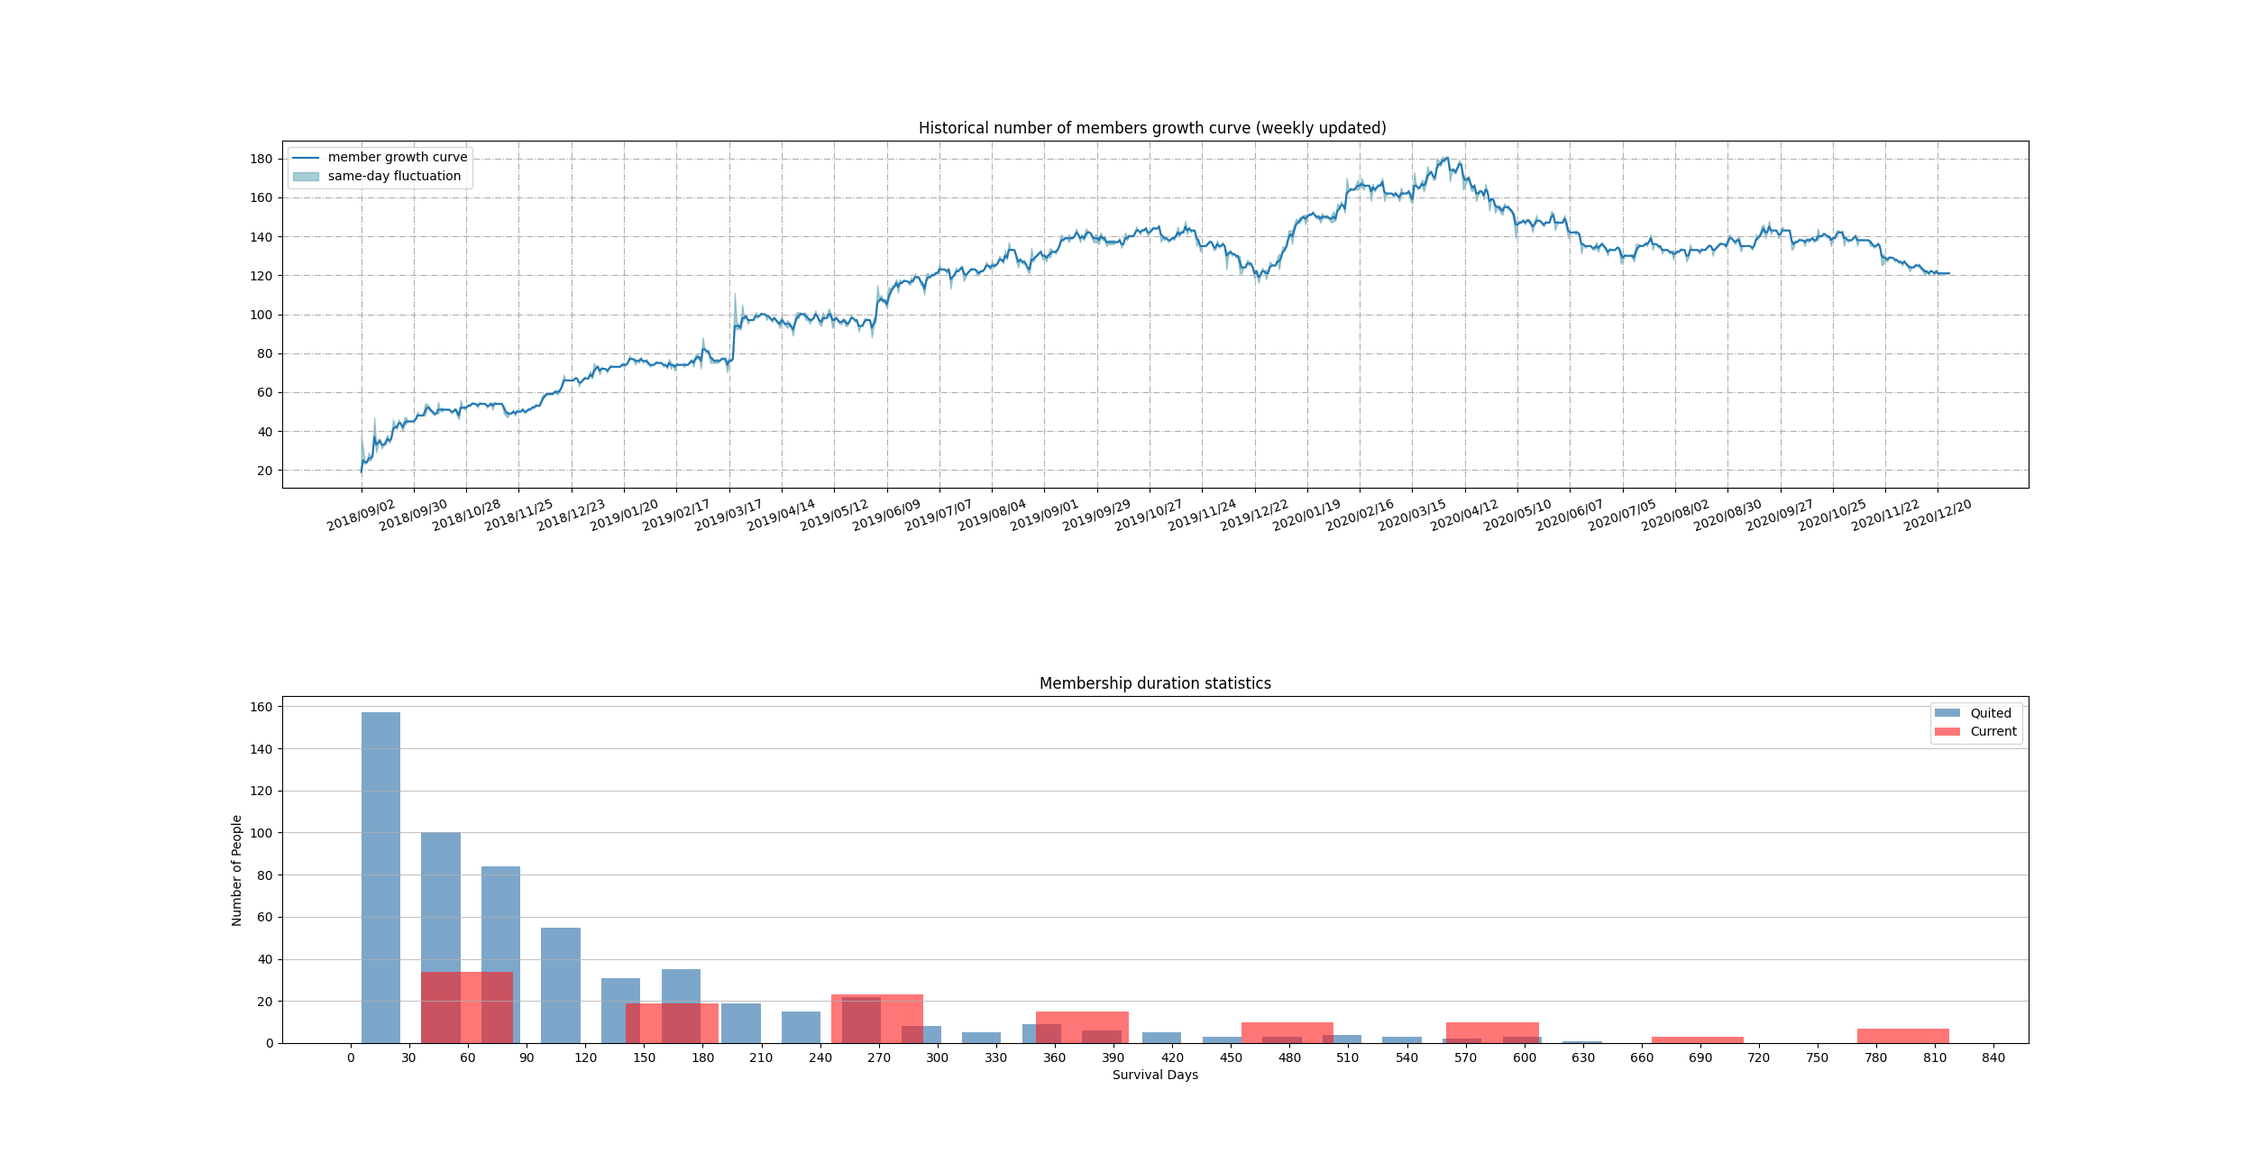
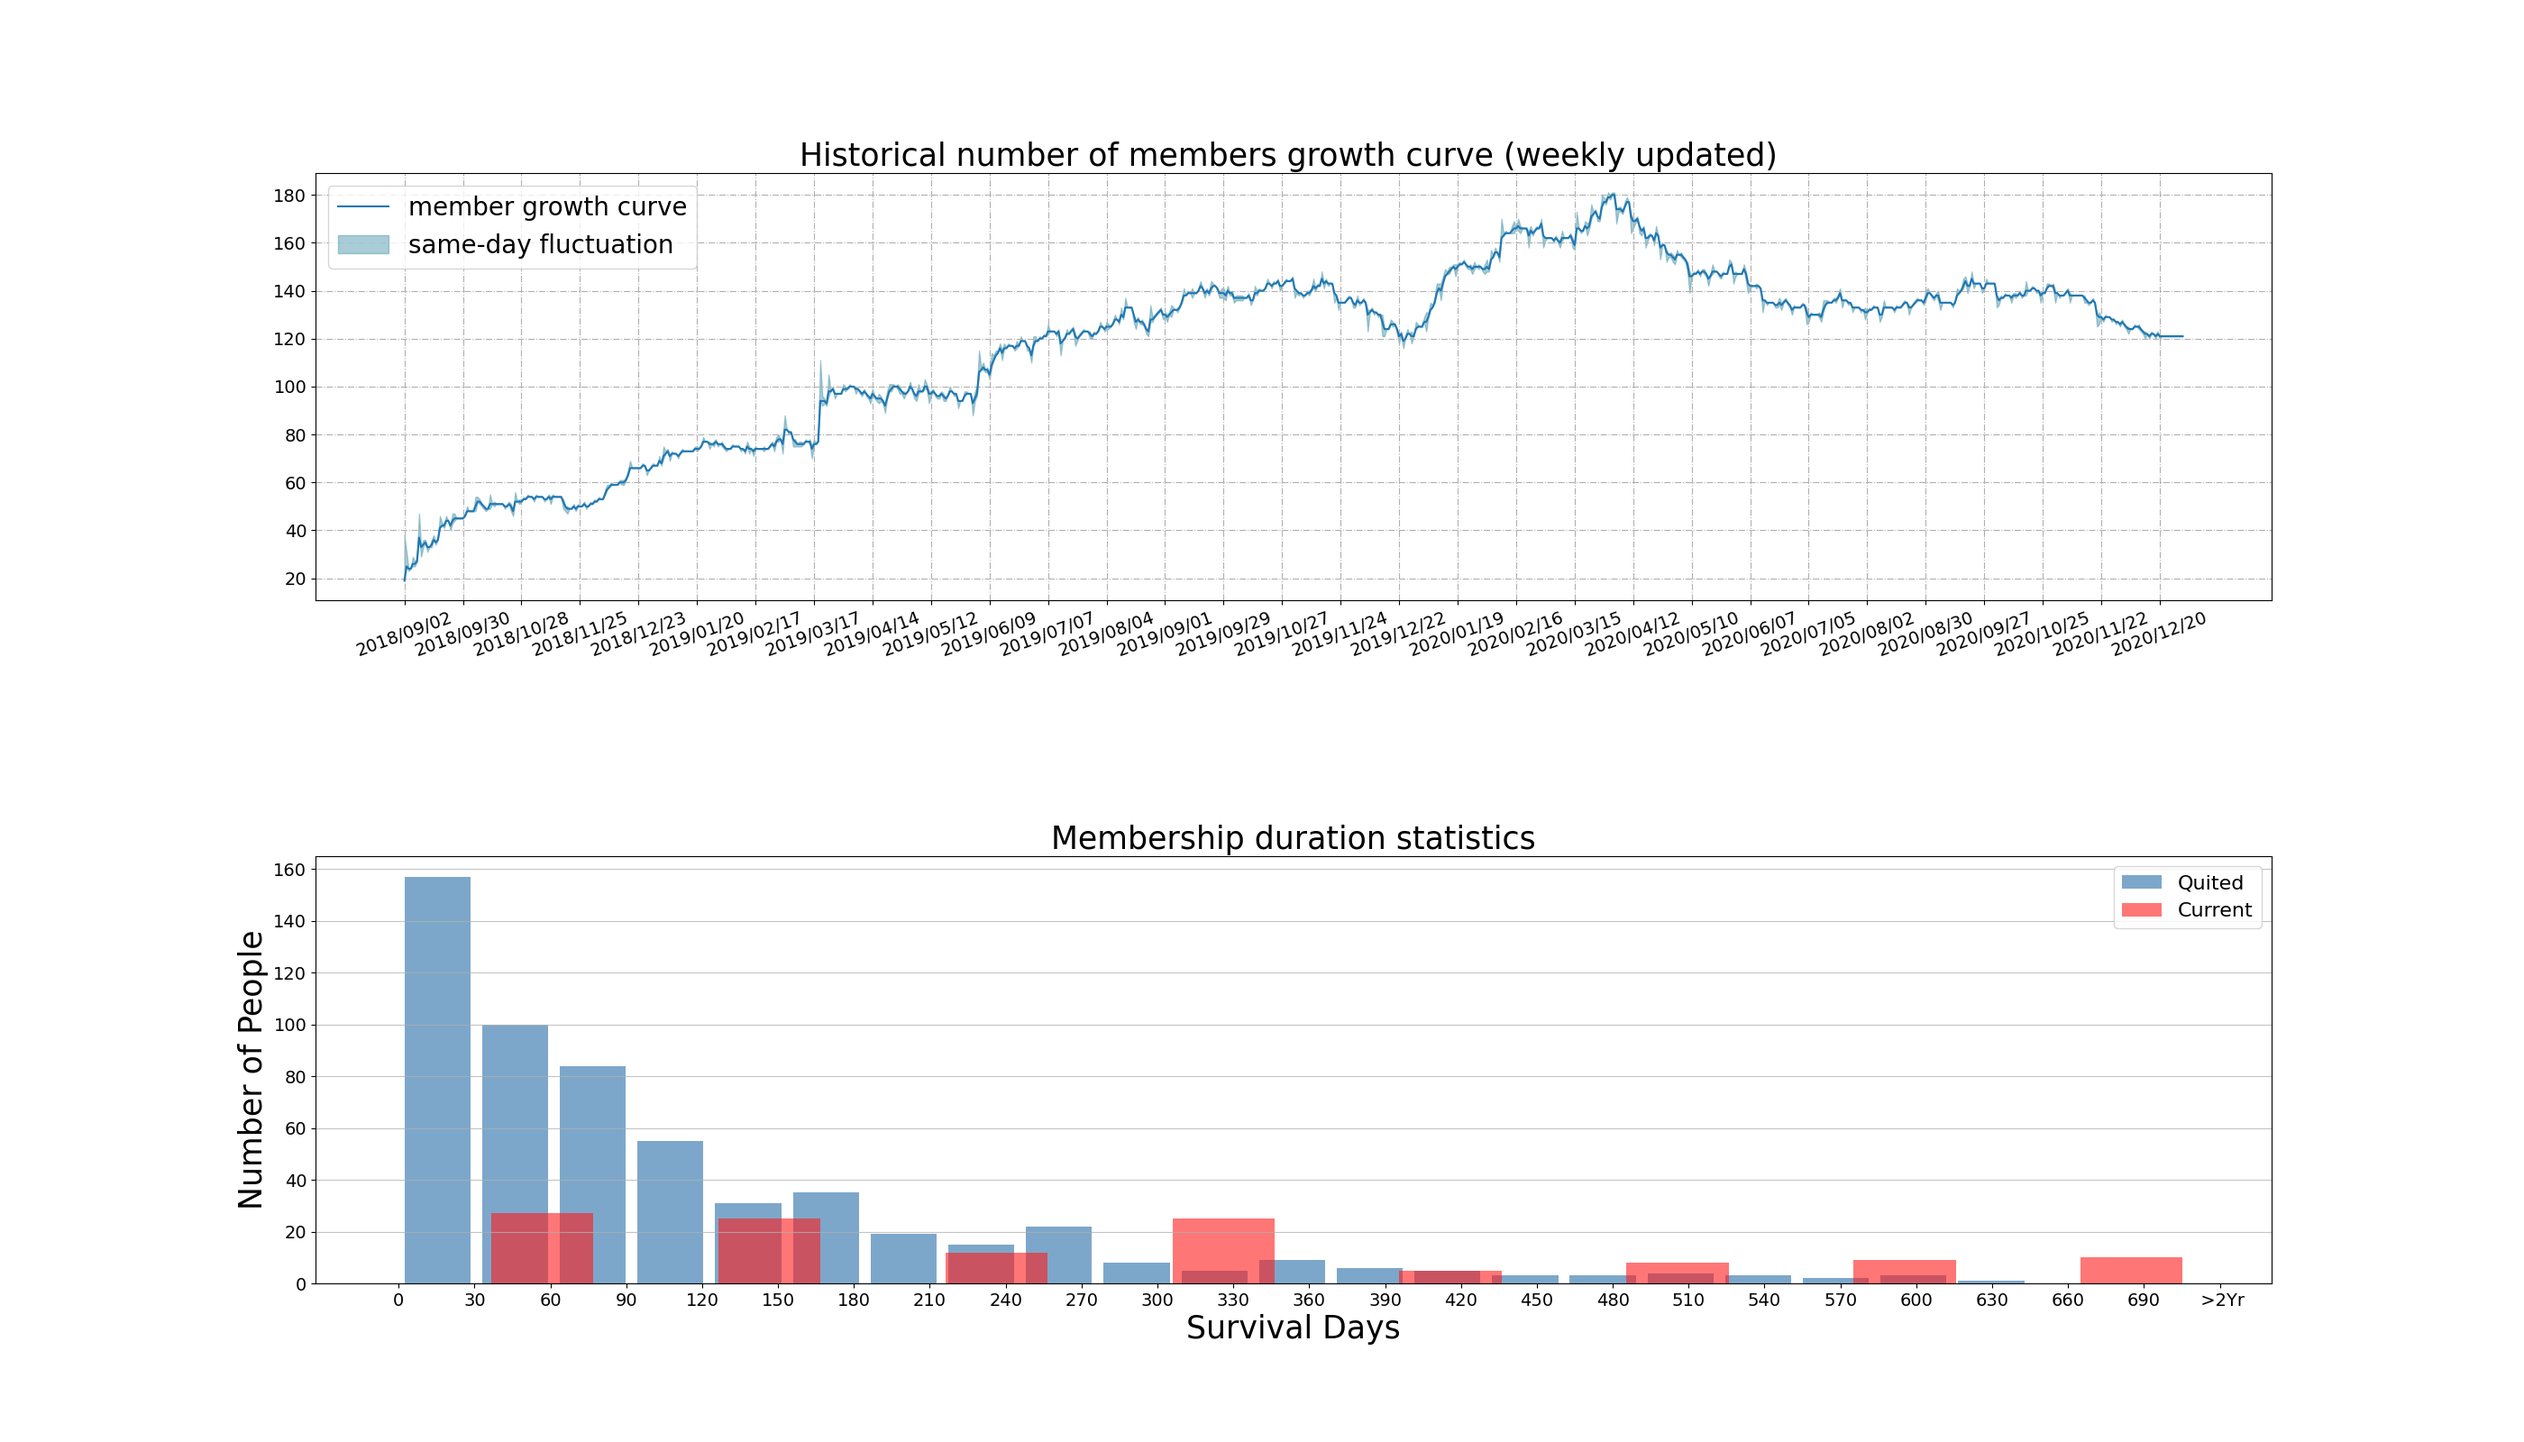
2020 reivew

diff --git a/generateEXCEL/Data/PlotGroupCurve.py b/generateEXCEL/Data/PlotGroupCurve.py
@@ -33,7 +33,7 @@ for line in data:
   date2 = datetime.date(int(d[2]),int(d[0]),int(d[1]))
   losePeople[date2]+=1
   
-  PeopleStatOut.append((date2-date1).days)
+  PeopleStatOut.append(min(365*2, (date2-date1).days))
 
 
 file = open("Members/In.txt","r") 
@@ -47,19 +47,17 @@ for line in data:
   date = datetime.date(int(d[2]),int(d[0]),int(d[1]))
   addPeople[date]+=1
   
-  PeopleStatIn.append((today-date).days)
+  PeopleStatIn.append(min(365*2, (today-date).days))
 
-
-  
-  
-count = 0;
+ 
+count = 0
 Days = []
 Nums = []
 upper = []
 lower = []
 for i in range(1000):
   day = start + datetime.timedelta(days=i)
-  if day>today: break;
+  if day>today: break
   
   Days.append(day.strftime("%Y/%m/%d")[:])
   
@@ -79,27 +77,33 @@ for i in range(len(Days)):
     print(Days[i]," ",Nums[i])
 
 
-plt.figure(21,figsize=(25,13))
+plt.figure(21,figsize=(28,16))
 
 plt.subplot(211)
 plt.plot(Nums, label = 'member growth curve')
 plt.fill_between(list(range(0,len(Days))), lower, upper, color = '#539caf', alpha = 0.5, label = 'same-day fluctuation')
-plt.xticks( list(range(0, len(Days),28)), Days[:-1:28], rotation=20 ) 
+plt.xticks( list(range(0, len(Days),28)), Days[:-1:28], rotation=20, fontsize=14 ) 
+plt.yticks(fontsize=14 ) 
 plt.grid(linestyle='-.')
-plt.title("Historical number of members growth curve (weekly updated) ")
-plt.legend(loc = 'upper left')
-# plt.xticks(fontsize=16, color="red", rotation=45)
+plt.title("Historical number of members growth curve (weekly updated) ", fontsize=25)
+plt.legend(loc = 'upper left', fontsize=20)
 
 plt.subplot(212)
-maxDay = (today-start).days
-n, bins, patches = plt.hist(x=PeopleStatOut, bins='auto', label = 'Quited', color='steelblue', alpha=0.7, rwidth=0.65)
+maxDay = 365*2
+n, bins, patches = plt.hist(x=PeopleStatOut, bins='auto', label = 'Quited', color='steelblue', alpha=0.7, rwidth=0.85)
 plt.hist(x=PeopleStatIn, bins='auto', label = 'Current', color='#FF1B1B', alpha=0.6, rwidth=0.45)
 plt.grid(axis='y', alpha=0.75)
-plt.xticks( list(range(0,maxDay,30)), list(range(0,maxDay,30)))
-plt.xlabel('Survival Days')
-plt.ylabel('Number of People')
-plt.title('Membership duration statistics')
-plt.legend(loc = 'upper right')
+
+tick1 = [x for x in range(0,maxDay+1,30)]
+tick2 = [str(x) for x in range(0,maxDay+1,30)]
+tick2[-1] = " >2Yr"
+plt.xticks(tick1, tick2, fontsize=14)
+plt.yticks(fontsize=14 ) 
+
+plt.xlabel('Survival Days', fontsize=25)
+plt.ylabel('Number of People', fontsize=25)
+plt.title('Membership duration statistics', fontsize=25)
+plt.legend(loc = 'upper right', fontsize=16)
 
 plt.subplots_adjust(hspace=0.6)  
 

diff --git a/generateEXCEL/index.py b/generateEXCEL/index.py
@@ -127,8 +127,8 @@ row, column = RowOffset+2, 3
 idx1 = convertToTitle(column)+str(row)
 idx2 = convertToTitle(column+8)+str(row)
 sheet.merge_cells(idx1+':'+idx2)
-sheet[idx1].value = 'Happy New Year! See 2019 Hero Board!'
-sheet[idx1].hyperlink = 'https://wisdompeak.github.io/lc-score-board/2019.html'
+sheet[idx1].value = 'Happy New Year! See 2020 Year-end Review!'
+sheet[idx1].hyperlink = 'https://docs.google.com/presentation/d/11Vv8RnbGZm8hQEa9T6DhxtMtsBknI1Io0nfcFVVOYUw/'
 sheet[idx1].alignment = Alignment(horizontal='left')
 sheet[idx1].font = Font(bold=True, size=SIZE)
 
